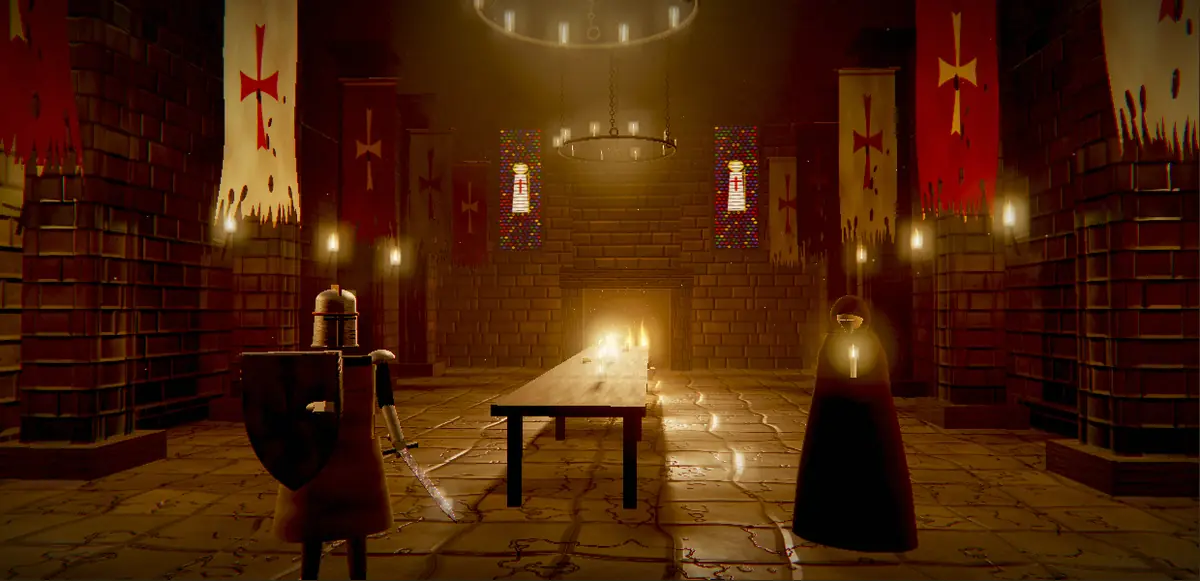
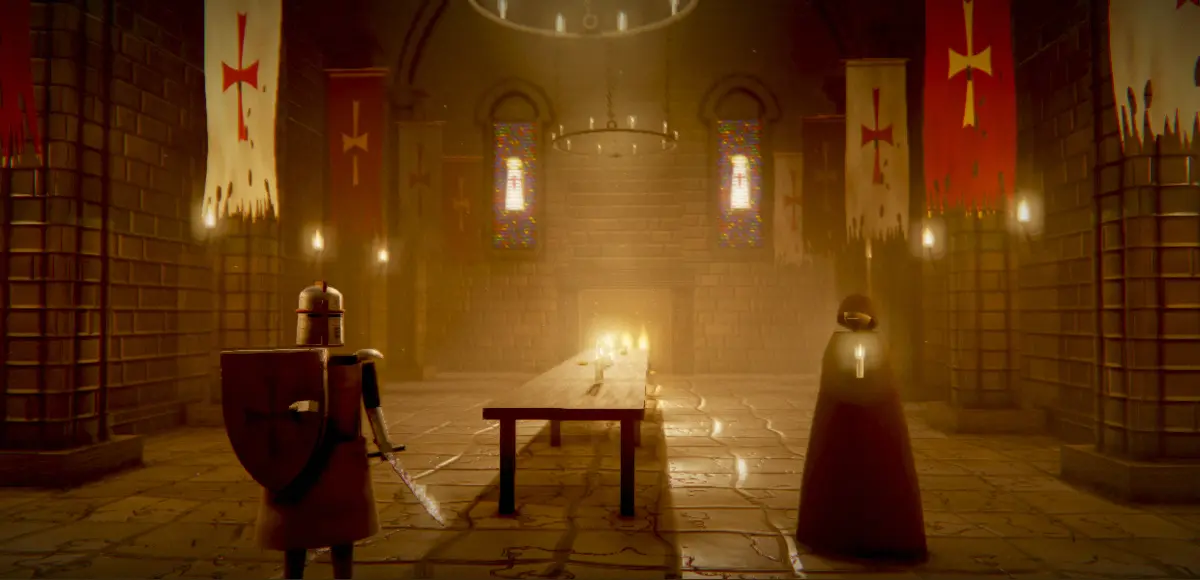
Game v12: photo mode and fresh Ultra screenshots
- Photo mode (P or the camera button): orbit the knight by dragging,
  scroll to zoom, [ ] for depth-of-field blur, P/Esc to exit. Game
  shortcuts are held while it's on; it won't start in combat and
  closes itself if a fight or room change begins. Engine gains
  camOverride/dofOverride hooks for it.
- New social card (cloister light shafts) and homepage game
  screenshots rendered with the Ultra pipeline.

Claude-Session: https://claude.ai/code/session_01Vka4exVXb5F84YZFBedPes

diff --git a/game3d/world.js b/game3d/world.js
@@ -34,6 +34,16 @@
       font-size:0.72rem; letter-spacing:0.14em; text-transform:uppercase; color:rgba(240,213,138,0.85); text-shadow:0 0 8px #000; white-space:nowrap; }
     .g3d-strike .verdict { position:absolute; transform:translate(-50%,-50%); font-family:var(--heading, serif); font-size:1.6rem;
       letter-spacing:0.12em; color:#ffd36a; text-shadow:0 0 18px rgba(255,200,80,0.8); animation:g3dPop 0.7s ease-out forwards; }
+    .scene-panel.g3d-photo .scene-overlay { opacity:0; transition:opacity 0.3s ease; }
+    .scene-panel.g3d-photo .g3d-canvas { cursor:grab; touch-action:none; }
+    .scene-panel.g3d-photo .g3d-canvas:active { cursor:grabbing; }
+    .g3d-photo-hint { position:absolute; top:10px; left:50%; transform:translateX(-50%); z-index:6; pointer-events:none; white-space:nowrap;
+      font-family:var(--ui, monospace); font-size:0.68rem; letter-spacing:0.1em; color:rgba(240,230,210,0.85);
+      background:rgba(8,8,10,0.7); border:1px solid rgba(201,168,76,0.35); padding:5px 12px; border-radius:2px; }
+    .g3d-photo-hint b { color:#f0d58a; font-weight:normal; text-transform:uppercase; margin-right:6px; }
+    .g3d-photo-hint kbd { font-family:inherit; border:1px solid rgba(240,230,210,0.35); padding:0 4px; border-radius:2px; }
+    #btnPhoto[aria-pressed="true"] { color:#f0d58a; border-color:rgba(201,168,76,0.7); }
+    @media (max-width: 700px) { .g3d-photo-hint { font-size:0.58rem; white-space:normal; width:90%; text-align:center; } }
     @keyframes g3dPop { 0%{opacity:0;transform:translate(-50%,-50%) scale(0.6)} 25%{opacity:1;transform:translate(-50%,-50%) scale(1.15)} 100%{opacity:0;transform:translate(-50%,-70%) scale(1)} }
   `;
   document.head.appendChild(style);
@@ -94,7 +104,7 @@
     if (!proxyFor[key]) { proxyFor[key] = new THREE.Mesh(new THREE.BoxGeometry(w, h, d), proxyMat); proxies.add(proxyFor[key]); }
     return proxyFor[key];
   }
-  function canAct() { return !STATE.inCombat && !walking && !C.pending && !(C.knight && (C.knight.dead || C.knight.walk)); }
+  function canAct() { return !photo.on && !STATE.inCombat && !walking && !C.pending && !(C.knight && (C.knight.dead || C.knight.walk)); }
   function targets() {
     const list = [];
     const room = ROOMS[C.roomId];
@@ -142,6 +152,7 @@
   C.canvas.addEventListener('pointermove', ev => { pointer = { x: ev.clientX, y: ev.clientY }; hovered = pick(ev); });
   C.canvas.addEventListener('pointerleave', () => { pointer = null; hovered = null; });
   C.canvas.addEventListener('click', ev => {
+    if (photo.on) return;
     if (strike) { resolveStrike(); return; }
     const hit = pick(ev);
     if (hit) act(hit);
@@ -179,7 +190,7 @@
   let walking = false;
   const origGo = window.go;
   window.go = function (dir) {
-    if (walking) return;
+    if (walking || photo.on) return;
     const room = ROOMS[STATE.currentRoom];
     if (!E.active || STATE.inCombat || C.pending || !room || !room.exits[dir] || C.reducedMotion || !C.knight || C.knight.dead) return origGo(dir);
     walking = true; hovered = null;
@@ -339,10 +350,78 @@
   }
   E.onStep = () => { if (amb.on) blip('step'); };
 
+  // ── Photo mode ────────────────────────────────────────────────────────────
+  // P (or the 📷 button) frees the camera: drag to orbit the knight, scroll to
+  // zoom, [ and ] to change the depth-of-field blur, P or Esc to return.
+  const photo = { on: false, yaw: 0, pitch: 0.2, dist: 4.5, target: V(0, 1, 0), ap: 0.45, drag: null };
+  const photoHint = document.createElement('div'); photoHint.className = 'g3d-photo-hint';
+  photoHint.innerHTML = '<b>Photo mode</b> drag to orbit · scroll to zoom · [ ] focus blur · <kbd>P</kbd> / <kbd>Esc</kbd> exit';
+  const photoBtn = document.createElement('button');
+  photoBtn.type = 'button'; photoBtn.className = 'btn-audio'; photoBtn.id = 'btnPhoto';
+  photoBtn.title = 'Photo mode (P): orbit the camera freely'; photoBtn.setAttribute('aria-pressed', 'false');
+  photoBtn.textContent = '📷'; photoBtn.setAttribute('aria-label', 'Photo mode');
+  const b3 = document.getElementById('btn3d');
+  if (b3 && b3.parentElement) b3.parentElement.insertBefore(photoBtn, b3.nextSibling);
+  photoBtn.addEventListener('click', () => setPhoto(!photo.on));
+  function photoAllowed() { return E.active && !STATE.inCombat && !C.pending && !walking && C.knight && !C.knight.dead && !C.knight.walk && !strike; }
+  function setPhoto(on) {
+    if (on && !photoAllowed()) return;
+    photo.on = on; hovered = null;
+    C.panel.classList.toggle('g3d-photo', on);
+    photoBtn.setAttribute('aria-pressed', String(on));
+    if (on) {
+      // Start exactly where the camera is, so the switch is seamless.
+      photo.target.copy(C.knight.home); photo.target.y += 1.1;
+      const off = C.camera.position.clone().sub(photo.target), d = off.length();
+      photo.dist = clamp(d, 1.6, 10); photo.yaw = Math.atan2(off.x, off.z); photo.pitch = clamp(Math.asin(off.y / d), -0.12, 1.3);
+      if (photoHint.parentElement !== C.panel) C.panel.appendChild(photoHint);
+      E.camOverride = (pos, look) => {
+        const cp = Math.cos(photo.pitch);
+        pos.set(photo.target.x + Math.sin(photo.yaw) * cp * photo.dist, Math.max(0.25, photo.target.y + Math.sin(photo.pitch) * photo.dist), photo.target.z + Math.cos(photo.yaw) * cp * photo.dist);
+        look.copy(photo.target);
+      };
+      E.dofOverride = { target: photo.target, aperture: photo.ap };
+    } else {
+      photoHint.remove(); E.camOverride = null; E.dofOverride = null; photo.drag = null;
+    }
+  }
+  C.canvas.addEventListener('pointerdown', ev => {
+    if (!photo.on) return;
+    photo.drag = { x: ev.clientX, y: ev.clientY, id: ev.pointerId };
+    try { C.canvas.setPointerCapture(ev.pointerId); } catch (_) {}
+  });
+  C.canvas.addEventListener('pointermove', ev => {
+    if (!photo.on || !photo.drag || photo.drag.id !== ev.pointerId) return;
+    photo.yaw -= (ev.clientX - photo.drag.x) * 0.008;
+    photo.pitch = clamp(photo.pitch + (ev.clientY - photo.drag.y) * 0.006, -0.12, 1.3);
+    photo.drag.x = ev.clientX; photo.drag.y = ev.clientY;
+  });
+  const endDrag = () => { photo.drag = null; };
+  C.canvas.addEventListener('pointerup', endDrag); C.canvas.addEventListener('pointercancel', endDrag);
+  C.canvas.addEventListener('wheel', ev => {
+    if (!photo.on) return;
+    ev.preventDefault();
+    photo.dist = clamp(photo.dist * Math.exp(ev.deltaY * 0.0012), 1.6, 10);
+  }, { passive: false });
+  // Capture phase, so photo mode can keep the game's own shortcuts from firing.
+  window.addEventListener('keydown', ev => {
+    const t = ev.target;
+    if (t && (t.tagName === 'INPUT' || t.tagName === 'TEXTAREA' || t.isContentEditable)) return;
+    const k = ev.key;
+    if (!photo.on) { if ((k === 'p' || k === 'P') && !ev.ctrlKey && !ev.metaKey && !ev.altKey) setPhoto(true); return; }
+    ev.stopImmediatePropagation();
+    if (k === 'p' || k === 'P' || k === 'Escape') { setPhoto(false); return; }
+    if (k === '[' || k === ']') { photo.ap = clamp(photo.ap + (k === ']' ? 0.1 : -0.1), 0, 1.2); E.dofOverride.aperture = photo.ap; }
+    if (k === 'ArrowLeft' || k === 'ArrowRight') { ev.preventDefault(); photo.yaw += k === 'ArrowLeft' ? 0.08 : -0.08; }
+    if (k === 'ArrowUp' || k === 'ArrowDown') { ev.preventDefault(); photo.pitch = clamp(photo.pitch + (k === 'ArrowUp' ? 0.05 : -0.05), -0.12, 1.3); }
+    if (k === '+' || k === '=' || k === '-') photo.dist = clamp(photo.dist * (k === '-' ? 1.1 : 0.9), 1.6, 10);
+  }, true);
+  function updatePhoto() { if (photo.on && !photoAllowed()) setPhoto(false); }
+
   // ── Wire into the engine ──────────────────────────────────────────────────
-  E.onRoom = function (id, spec) { buildExits(id, spec); amb.profile = null; hovered = null; };
-  E.onFrame = function (dt) { updateSigils(dt); updateHover(); updateStrike(); updateAudio(dt); };
+  E.onRoom = function (id, spec) { if (photo.on) setPhoto(false); buildExits(id, spec); amb.profile = null; hovered = null; };
+  E.onFrame = function (dt) { updatePhoto(); updateSigils(dt); updateHover(); updateStrike(); updateAudio(dt); };
   if (C.room && C.roomId) buildExits(C.roomId, C.room);
-  G3D.world = { exits: () => exits.map(e => ({ dir: e.dir, to: e.to, pos: e.sigil.position.toArray() })), get strike() { return strike; }, get walking() { return walking; }, get hovered() { return hovered; }, amb };
+  G3D.world = { group: exitGroup, exits: () => exits.map(e => ({ dir: e.dir, to: e.to, pos: e.sigil.position.toArray() })), get strike() { return strike; }, get walking() { return walking; }, get hovered() { return hovered; }, amb, photo, setPhoto };
   }
 })();

diff --git a/game3d/engine.js b/game3d/engine.js
@@ -877,6 +877,7 @@
       tmpLook.x += (Math.random() - 0.5) * s * 0.3;
     }
     cam.shake = Math.max(0, cam.shake - dt * 1.2);
+    if (E.camOverride) E.camOverride(tmpPos, tmpLook, dt);   // photo mode (game3d/world.js)
     camera.position.copy(tmpPos);
     camera.lookAt(tmpLook);
     // Field of view from the desired horizontal angle, clamped for tall screens.
@@ -1034,6 +1035,7 @@
     focusV.copy(knight.R.root.position).y += 1.3;
     if (cam.combat > 0.01 && enemy) { tmpV.copy(enemy.R.root.position).y += 1.3; focusV.lerp(tmpV, 0.5); ap = G3D.lerp(ap, 0.5, cam.combat); }
     if (knight.dead) ap = 0.7;
+    if (E.dofOverride) { focusV.copy(E.dofOverride.target); ap = E.dofOverride.aperture; }
     const fd = camera.position.distanceTo(focusV);
     fx.focus += (fd - fx.focus) * Math.min(1, dt * 4); fx.aperture += (ap - fx.aperture) * Math.min(1, dt * 2);
     d.focus.value = fx.focus; d.aperture.value = fx.aperture;
@@ -1103,7 +1105,7 @@
     size: renderer.getSize(new THREE.Vector2()).toArray(), pr: renderer.getPixelRatio(), room: roomId, time: +time.toFixed(2), parent: canvas.parentElement.id,
     gl2: renderer.capabilities.isWebGL2, rtType: composer.renderTarget1.texture.type, pending: E.pending,
     ultra: !!E.ultra, fx: Object.assign({}, fx) });
-  E.fx = fx; E.tune = null;
+  E.fx = fx; E.tune = null; E.camOverride = null; E.dofOverride = null;
   // Boot after the game has initialised.
   if (document.readyState === 'loading') document.addEventListener('DOMContentLoaded', E.boot); else E.boot();
 })();

diff --git a/index.html b/index.html
@@ -950,6 +950,10 @@
           <li>Cinematic letterbox bars sweep in for the big moments: the golden armour, the knight's fall, the Necromancer's end and victory</li>
           <li>Sharper 2048px shadows</li>
         </ul>
+        <div class="patch-category">Photo Mode</div>
+        <ul class="patch-list">
+          <li>Press <strong>P</strong> (or 📷 in the top bar) to free the camera: drag to orbit the knight, scroll to zoom, <strong>[ ]</strong> to set the depth-of-field blur, P or Esc to return</li>
+        </ul>
         <div class="patch-category">Scales to Your Machine</div>
         <ul class="patch-list">
           <li>Top-bar toggle now cycles ◆ Ultra → ◆ 3D → ◇ 2D; Ultra is the default on desktop browsers with WebGL2</li>

diff --git a/README.md b/README.md
@@ -25,7 +25,7 @@ Built from scratch in vanilla HTML, CSS and JavaScript. No framework, no build s
 | [`pentest-sim.html`](pentest-sim.html) | Pentest simulator. |
 | [`hacker-feed.html`](hacker-feed.html) | Live GitHub activity rendered as a security ops console. |
 | [`insane-engine.html`](insane-engine.html) | GPU cinematic demo — fluid ink, particles, bloom. |
-| [`game.html`](game.html) + [`game3d/`](game3d/) | **Knights Templar: The Siege of the Undead** — browser RPG that grew out of an SNHU IT 140 Python assignment. Every room is rendered in real-time 3D (three.js): procedural PBR textures, torchlight and shadows, bloom and film grading, and animated combat. On desktop the **Ultra** tier adds a cinematic pipeline: volumetric light shafts through shadow-mapped fog, ambient occlusion, screen-space reflections, depth of field, lens effects and a rainstorm. You play inside the scene: click glowing exit sigils to walk between rooms, click relics, scrolls and NPCs, land timed strikes for critical hits, and hear a procedural ambient soundscape. Falls back to the original SVG art without WebGL; a ◆ 3D / ◇ 2D toggle sits in the top bar. |
+| [`game.html`](game.html) + [`game3d/`](game3d/) | **Knights Templar: The Siege of the Undead** — browser RPG that grew out of an SNHU IT 140 Python assignment. Every room is rendered in real-time 3D (three.js): procedural PBR textures, torchlight and shadows, bloom and film grading, and animated combat. On desktop the **Ultra** tier adds a cinematic pipeline: volumetric light shafts through shadow-mapped fog, ambient occlusion, screen-space reflections, depth of field, lens effects and a rainstorm — and a photo mode (press **P**) to orbit the camera. You play inside the scene: click glowing exit sigils to walk between rooms, click relics, scrolls and NPCs, land timed strikes for critical hits, and hear a procedural ambient soundscape. Falls back to the original SVG art without WebGL; a ◆ 3D / ◇ 2D toggle sits in the top bar. |
 | [`world.html`](world.html) + [`src/`](src/) | **REALM** — modular open-world 3D sandbox (procedural terrain, day/night, weather, vehicles, quests). |
 
 ---
